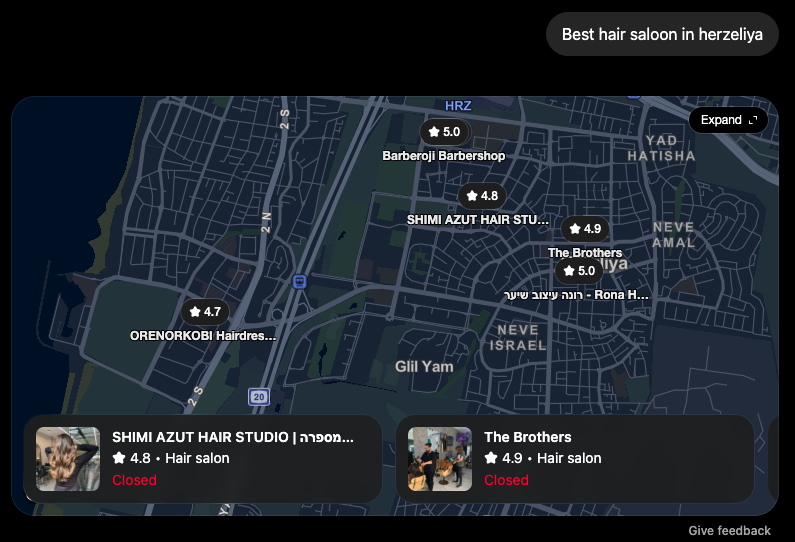
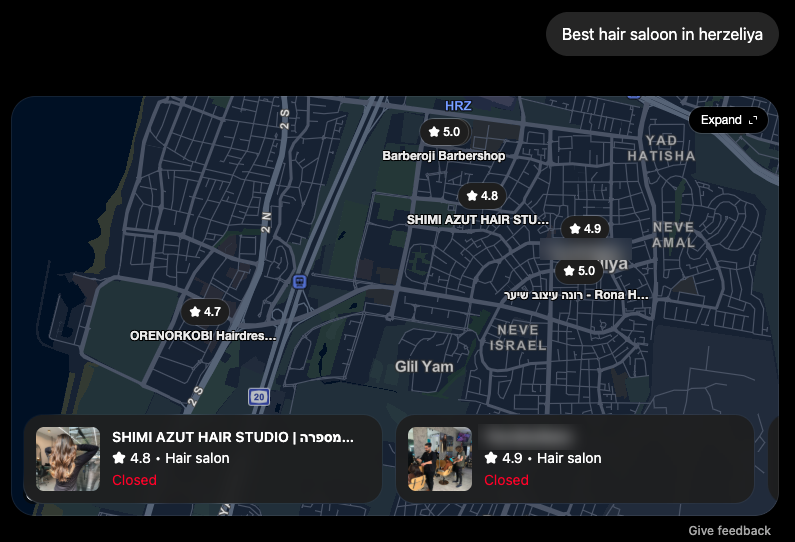
fix(hp): drop 'Honestly' from Shimi quote + blur competitor name in proof image

Changed region(s): [[0.6642, 0.4133, 0.8151, 0.5018], [0.6038, 0.7675, 0.7245, 0.8266]]

diff --git a/src/app/(marketing)/InteractivityScript.tsx b/src/app/(marketing)/InteractivityScript.tsx
@@ -72,7 +72,7 @@ export default function InteractivityScript() {
         'addons.gmb.t': "Google Business Setup", 'addons.gmb.tag': "Full profile setup so you appear when someone nearby searches for what you do",
         'addons.gmb.body': "We claim and fully set up your Google Business Profile so you appear in Google Maps and local search when someone nearby searches for what you do. <strong>Done once, works forever.</strong> Verified profile, photos, hours, and description.",
         'test.label': "What owners say", 'test.title': "Real businesses. Real results.",
-        'test.shimi.q': "Honestly I never had time for any of this, I'm cutting hair all day. Bapita set everything up for me and it worked from day one. Now my clients book themselves and my chair stays full.",
+        'test.shimi.q': "I never had time for any of this, I'm cutting hair all day. Bapita set everything up for me and it worked from day one. Now my clients book themselves and my chair stays full.",
         'test.shimi.n': "Shimi Azut", 'test.shimi.m': "Shimi Azut Hair Studio, Herzliya",
         'test.shimi.rev': "474 Google reviews", 'test.shimi.gpt': "When people ask ChatGPT for the best hair salon in Herzliya, Shimi comes up first.",
         'faq.label': "Questions", 'faq.title': "Straight answers.", 'faq.sub': "Everything you need to know before the call.",

diff --git a/src/app/(marketing)/page.tsx b/src/app/(marketing)/page.tsx
@@ -119,7 +119,7 @@ function StarIcon({ className }: { className?: string }) {
 
 const shimi = {
   quote:
-    "Honestly I never had time for any of this, I'm cutting hair all day. Bapita set everything up for me and it worked from day one. Now my clients book themselves and my chair stays full.",
+    "I never had time for any of this, I'm cutting hair all day. Bapita set everything up for me and it worked from day one. Now my clients book themselves and my chair stays full.",
   name: "Shimi Azut",
   meta: "Shimi Azut Hair Studio, Herzliya",
 };